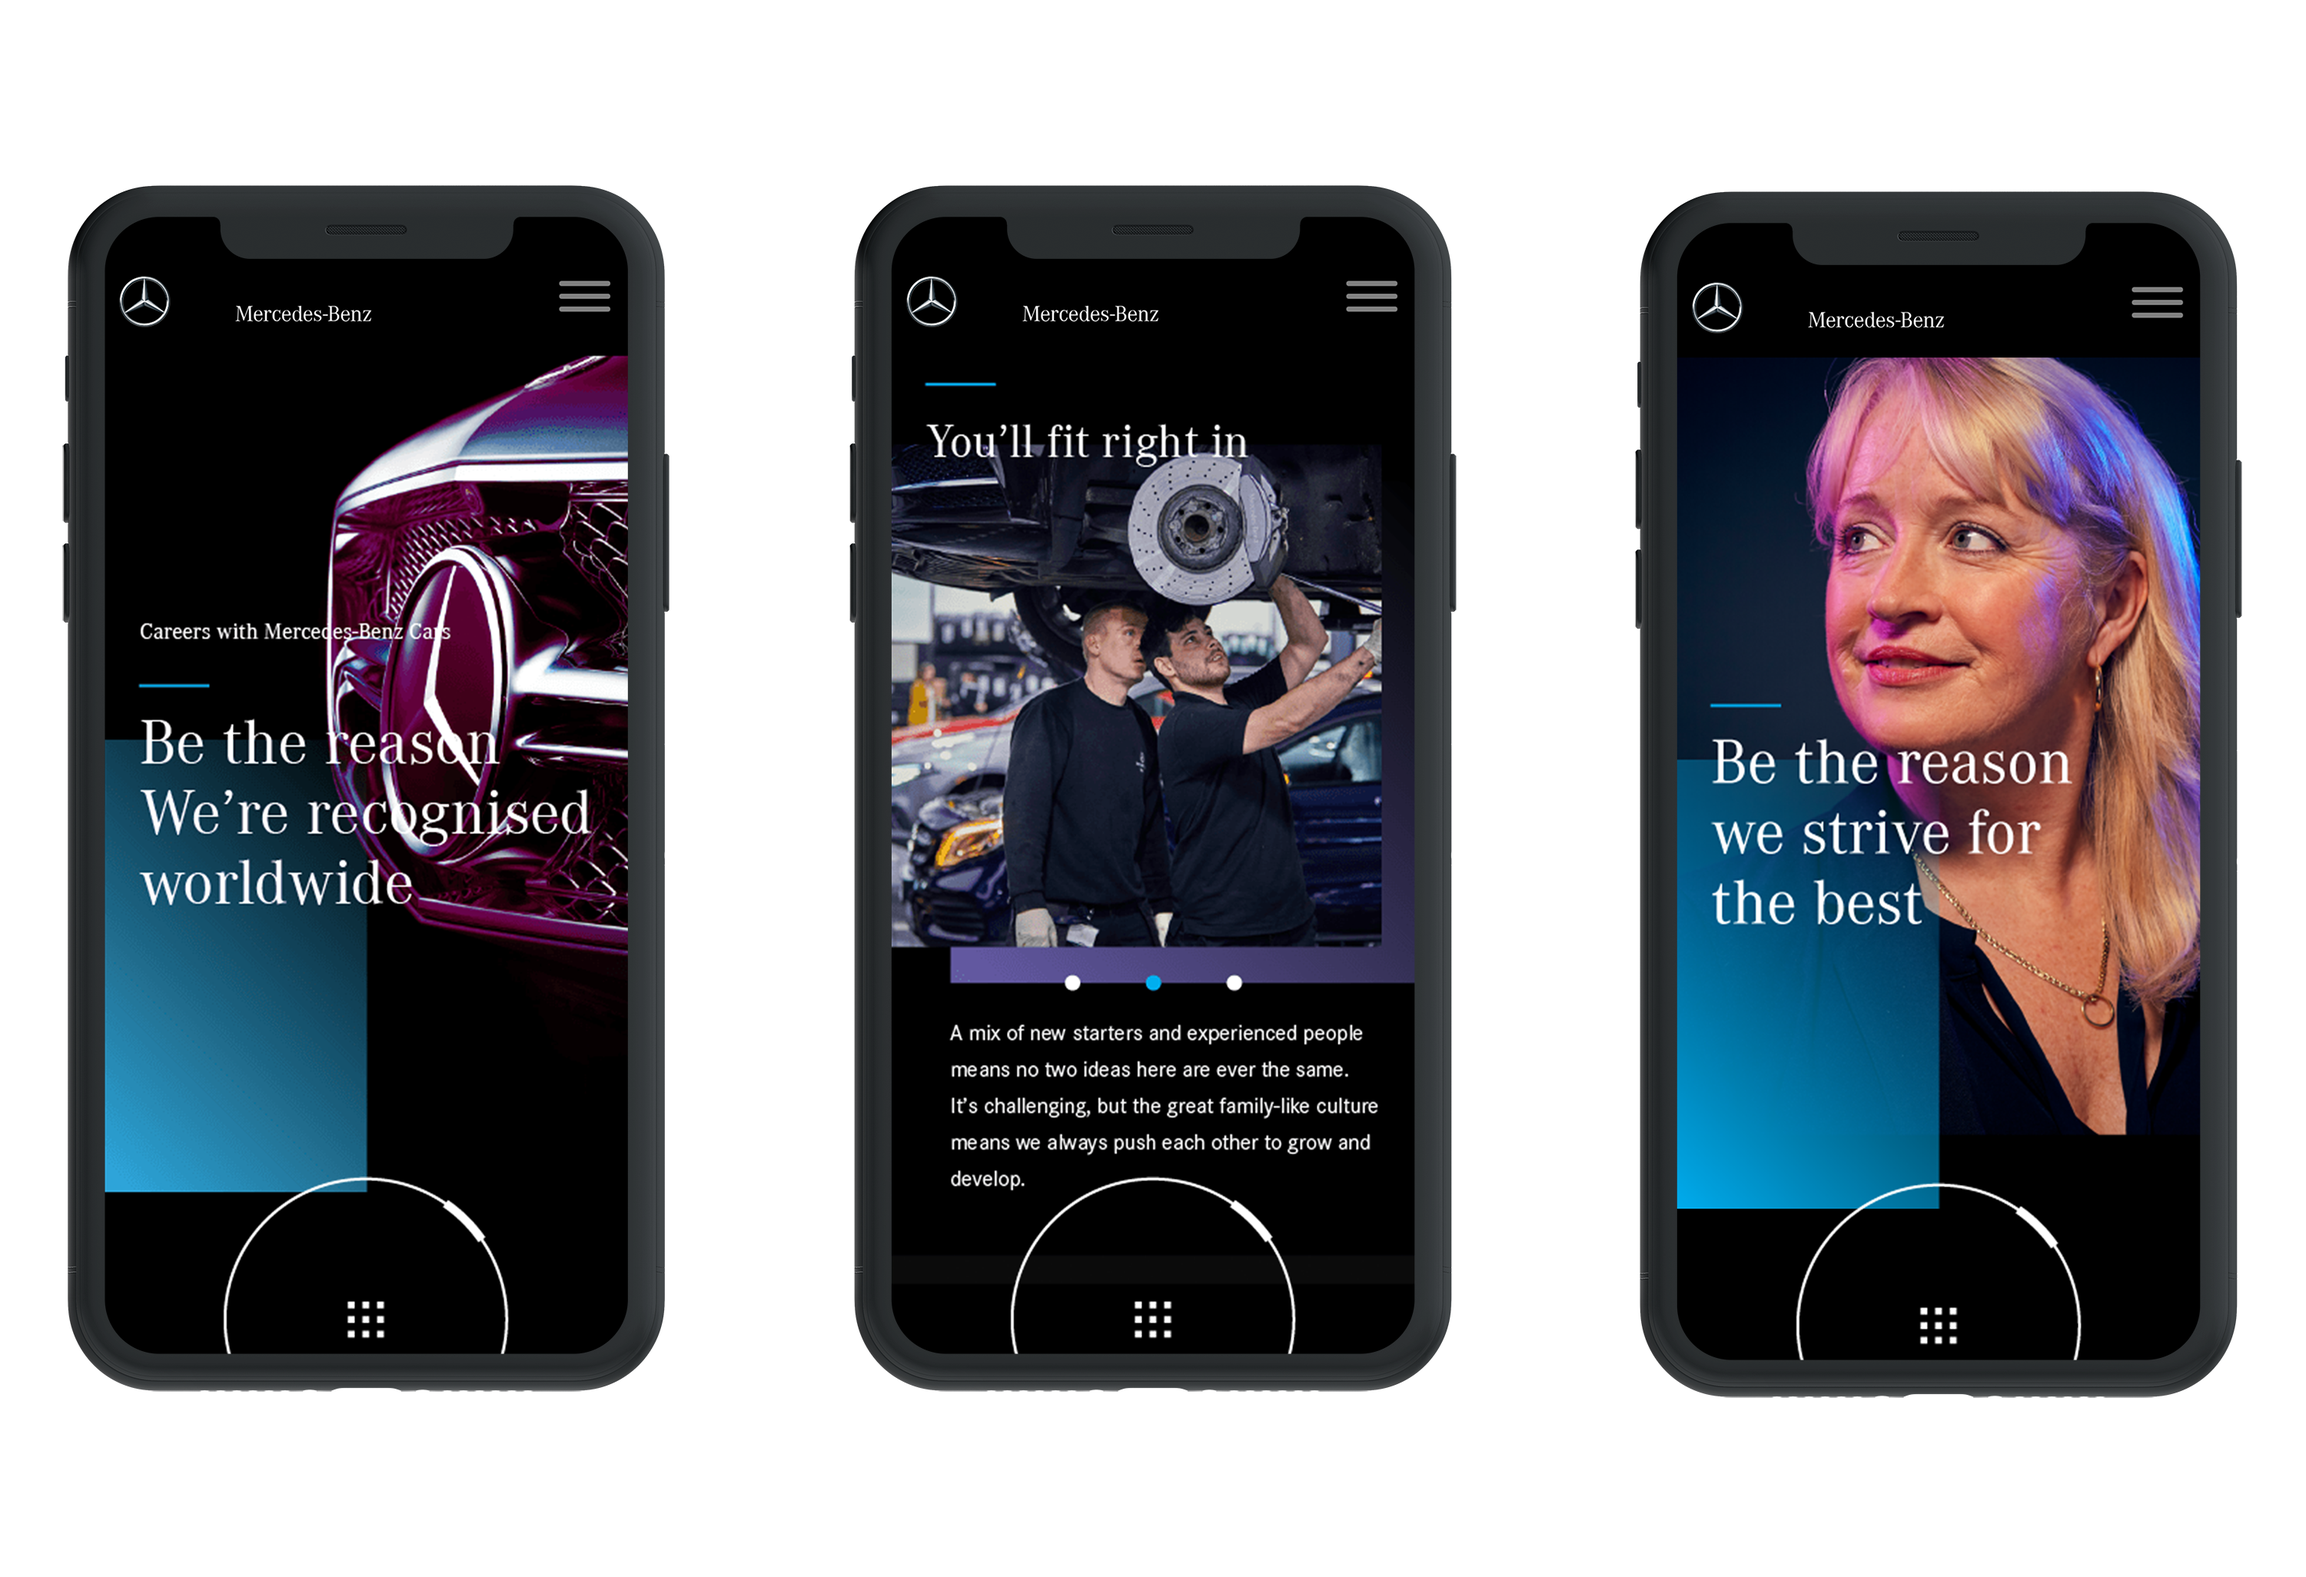
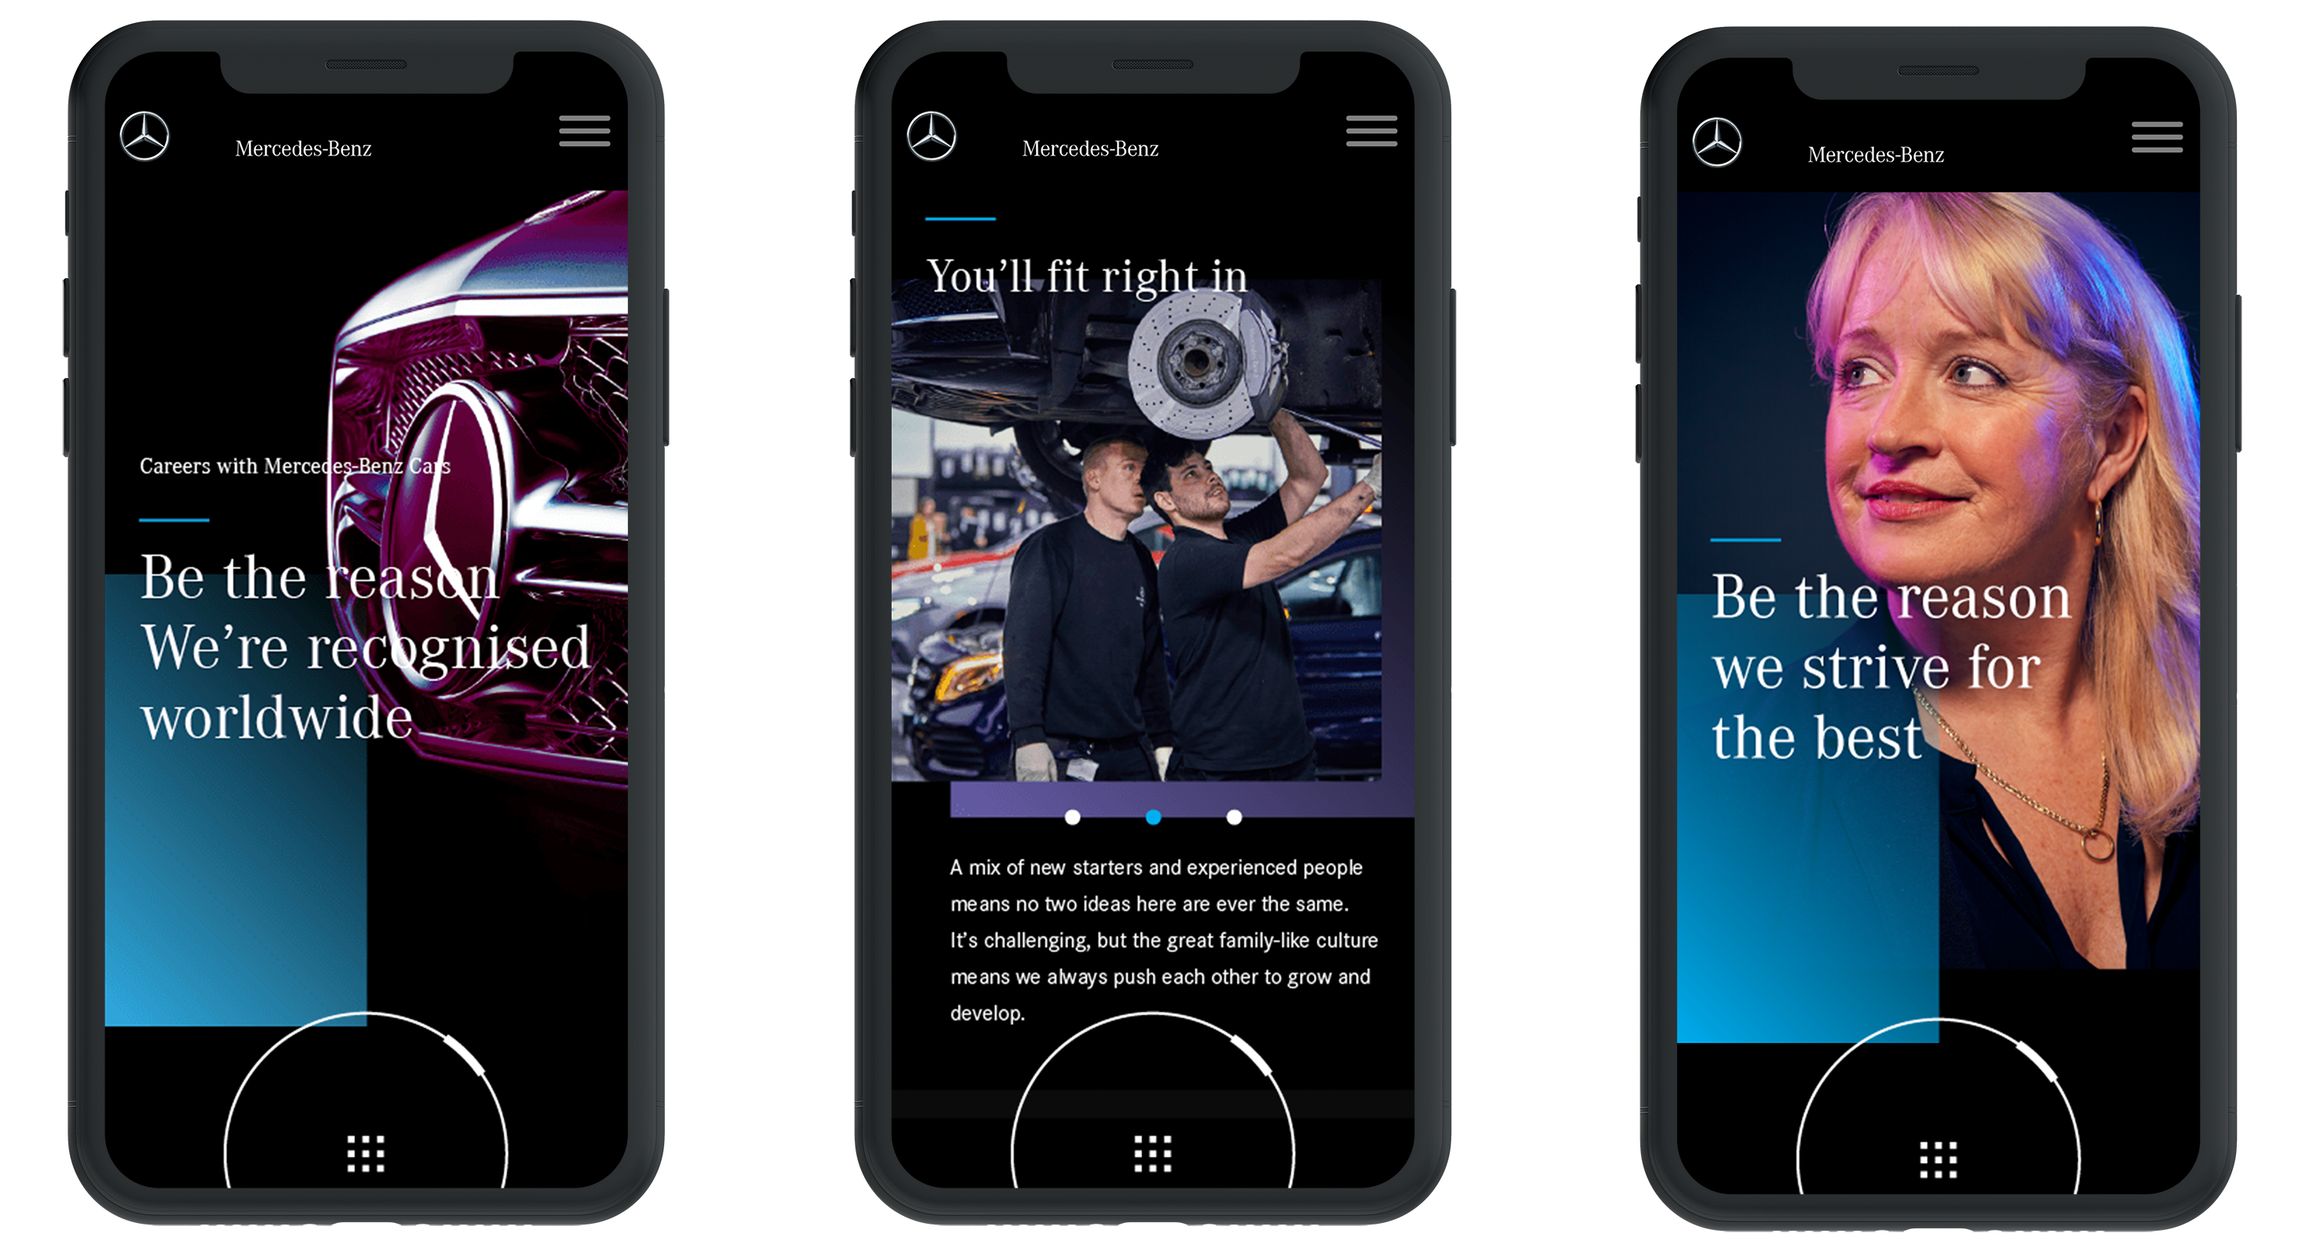
a

diff --git a/mercedes-benz.html b/mercedes-benz.html
@@ -176,9 +176,11 @@
 
 
 <div class="project-paragraph-container">
-  <p>Lorem ipsum dolor sit amet, consectetur adipiscing elit. Aliquam auctor mauris at felis ullamcorper, ac mollis libero eleifend. Integer ultricies libero sed lorem imperdiet, in maximus nunc dapibus. Aliquam sem nunc, mollis quis nisl vel, vestibulum aliquam odio. Quisque eu pulvinar orci. Nam hendrerit odio eget nunc dignissim consequat. Class aptent taciti sociosqu ad litora torquent per conubia nostra, per inceptos himenaeos. Pellentesque gravida iaculis urna. Mauris eu ante leo. Quisque metus elit, ultrices in nunc eu, tincidunt auctor lorem. Nam vitae sapien eu nisl interdum dapibus at in arcu.
+  <p>Mercedes-Benz's UK careers website was redesigned to showcase, in an engaging and exciting way, the seven different and unique business divisions within the company. <br>  <br>
 
-Curabitur non auctor erat, at posuere odio. Cras eros ante, dignissim id gravida eu, suscipit et dui. Praesent risus eros, tempus id neque in, lacinia finibus augue. Etiam finibus sapien turpis, a gravida sem blandit varius. Donec aliquet ipsum quis ultrices placerat. Nulla facilisi. Quisque sollicitudin iaculis lacus non consequat.</p>
+The website redesign needed to speak for all of the different divisions, showcasing the unique culture and personality of each of them, without there being a disconnect between the Mercedes-Benz brand. Working with Brand Strategists, I understand the client's business goals and the user goals, this help me define the user personas to gain a deeper understanding of our targeted audiences – from a range of different backgrounds and skillsets.
+
+</p>
 
 
 </div>
@@ -187,7 +189,7 @@ Curabitur non auctor erat, at posuere odio. Cras eros ante, dignissim id gravida
 
 
 <div class='btn-cont'>
-<a class='btn' href='https://mercedesbenz-staging.pinksquid.info' target="_blank">
+<a class='btn' href='https://careers.mercedes-benz.co.uk/' target="_blank">
   view website
   <span class='line-1'></span>
   <span class='line-2'></span>
@@ -203,32 +205,74 @@ Curabitur non auctor erat, at posuere odio. Cras eros ante, dignissim id gravida
 </div>
 
 
-<div class="project-images mercedes-benz">
+<div class="project-images mercedes-benz-images">
 
-  <div class="project-image-one fade-in mercedes-benz">
+  <div class="project-image-one fade-in mercedes-benz-images">
     <img src="./images/earlycareers-header.png" alt="">
   </div>
 
 
-  <div class="project-image-two fade-in mercedes-benz">
+
+
+
+
+  <div class="project-image-two fade-in mercedes-benz-images">
+    <img src="./images/mercedes-benz-sitemap.svg" alt="">
+  </div>
+
+  <div class="project-image-three fade-in mercedes-benz-images">
     <img src="./images/mercedes-benz-desktop.png" alt="">
   </div>
 
-  <div class="project-image-three fade-in mercedes-benz">
+
+  <div class="project-image-four fade-in mercedes-benz-images">
     <img src="./images/mercedes-benz-iphone.png" alt="">
   </div>
 
-  <div class="project-image-four fade-in mercedes-benz">
 
-    <video autoplay loop muted>
+<div class="project-copy-seperator">
+  <div class="project-paragraph-container">
+  <p>The existing careers website made it difficult for users to understand the business structure of Mercedes-Benz within the UK, so it was felt that the new website had to make this clear and obvious. The challenge put forward was that the seven different business divisions had to be designed in way that didn't demonstrate hierarchical favouring, so a simple listing of the divisions wouldn't suffice.
+
+  This brought the idea of the circle navigation, giving the divisions a menu of their own in which each selector would lead to its own division page.</p>
+  </div>
+
+</div>
+
+  <div class="project-image-five fade-in mercedes-benz-images">
+
+    <video autoplay loop muted muted playsinline>
       <source src="./images/mercedes-benz-menu-loop.mp4" type="video/mp4">
 
 
     </video>
   </div>
 
+  <div class="project-image-six fade-in mercedes-benz-images">
+    <img src="./images/mercedes-benz-desktop-two.png" alt="">
+  </div>
+
 
 </div>
+
+
+
+
+<footer>
+
+  <div class="project-footer">
+
+  <div class="footer-buttons previously">
+      <a href="#"><p>PREVIOUS</p></a>
+  </div>
+
+  <div class="footer-buttons next">
+      <a href="#"><p>NEXT</p></a>
+  </div>
+
+  </div>
+
+</footer>
 
   </main>
 
@@ -275,6 +319,10 @@ ScrollReveal().reveal('.btn-cont', { distance: '100px' });
 ScrollReveal().reveal('.fade-in img', { delay: 0 });
 ScrollReveal().reveal('.fade-in img', { duration: 3000 });
 ScrollReveal().reveal('.fade-in img', { distance: '300px' });
+
+ScrollReveal().reveal('.fade-in video', { delay: 0 });
+ScrollReveal().reveal('.fade-in video', { duration: 3000 });
+ScrollReveal().reveal('.fade-in video', { distance: '300px' });
 
 
 </script>

diff --git a/style/style.css b/style/style.css
@@ -772,66 +772,118 @@ text-align: left;
 .project-images {
 
   width: 100%;
-  height: 100vh;
   position: relative;
   float: left;
   display: block;
 }
 
-.project-image-one {
-  width: 70%;
-  position: relative;
+.project-image-one,
+.project-image-two,
+.project-image-three,
+.project-image-four,
+.project-image-five {
+  width: 100%;
   display: block;
   margin: auto;
-  margin-top:10%;
-  z-index: 2;
+  margin-top: auto;
+  margin-bottom: auto;
+  margin-left: auto;
+  margin-right: auto;
+  padding: 8% 0;
 }
+
+
+
+.project-image-three,
+.project-image-six{
+  background: #0b0b0bb0;
+  z-index: 3;
+  overflow: hidden;
+  padding-bottom: 0;
+}
+
 
 .project-image-one img,
 .project-image-two img,
 .project-image-three img,
-.project-image-four video{
-  width: 100%;
-  position: absolute;
-}
-
-.project-image-two img {
-  width: 70%;
+.project-image-four img,
+.project-image-five video,
+.project-image-six img{
+  width: 65%;
   position: relative;
   display: block;
   margin-left: auto;
   margin-right: auto;
 }
 
+.project-image-three img,
+.project-image-six img {
+  width: 70%;
+  position: relative;
+  display: block;
+  margin-left: auto;
+  margin-right: auto;
+  z-index: 3;
+}
 
-.project-image-two{
+
+
+.project-image-two.mercedes-benz-images img{
+  width: 55%;
+}
+
+
+.project-copy-seperator {
+  background: #0b0b0bb0;
   width: 100%;
   position: relative;
   display: block;
-  margin: auto;
-  margin-top: 60%;
-  background: #0b0b0bb0;
-  overflow: hidden;
-  z-index: 1;
-  padding-top: 3%;
+  color: white;
+  z-index: 5;
+
+  padding: 8% 0;
 }
 
-.project-image-three{
-  width: 70%;
+.project-copy-seperator .project-paragraph-container{
+  width: 60%;
   position: relative;
-  display: block;
   margin: auto;
-  margin-top: 10%;
-  margin-bottom: 60%;
-  z-index: 2;
 }
 
-.project-image-four {
-  width: 70%;
-  position: relative;
-  display: block;
-  margin: auto;
-  margin-top: 60%;
-  margin-bottom: 60%;
-  z-index: 2;
+
+
+
+/*------project-footer-----*/
+
+
+
+.project-footer {
+    float: left;
+
+    width: 100%;
+    background: black;
+}
+
+
+ .footer-buttons {
+  margin: 0, 10;
+}
+
+.footer-buttons p{
+font-weight: 700;
+color: #e8e8e8;
+text-transform: uppercase;
+letter-spacing: 0.2em;
+}
+
+.footer-buttons.previously{
+  float: left;
+  text-align: left;
+  margin: 1% 20%;
+}
+
+.footer-buttons.next{
+  float: right;
+  text-align: right;
+  margin: 1% 20%;
 }

diff --git a/js/scripts.js b/js/scripts.js
@@ -93,7 +93,6 @@ $(document).ready(function() {
 
 
 
-
 // $(document).ready(function() {
 //
 //   $(window).scroll(function(event) {
